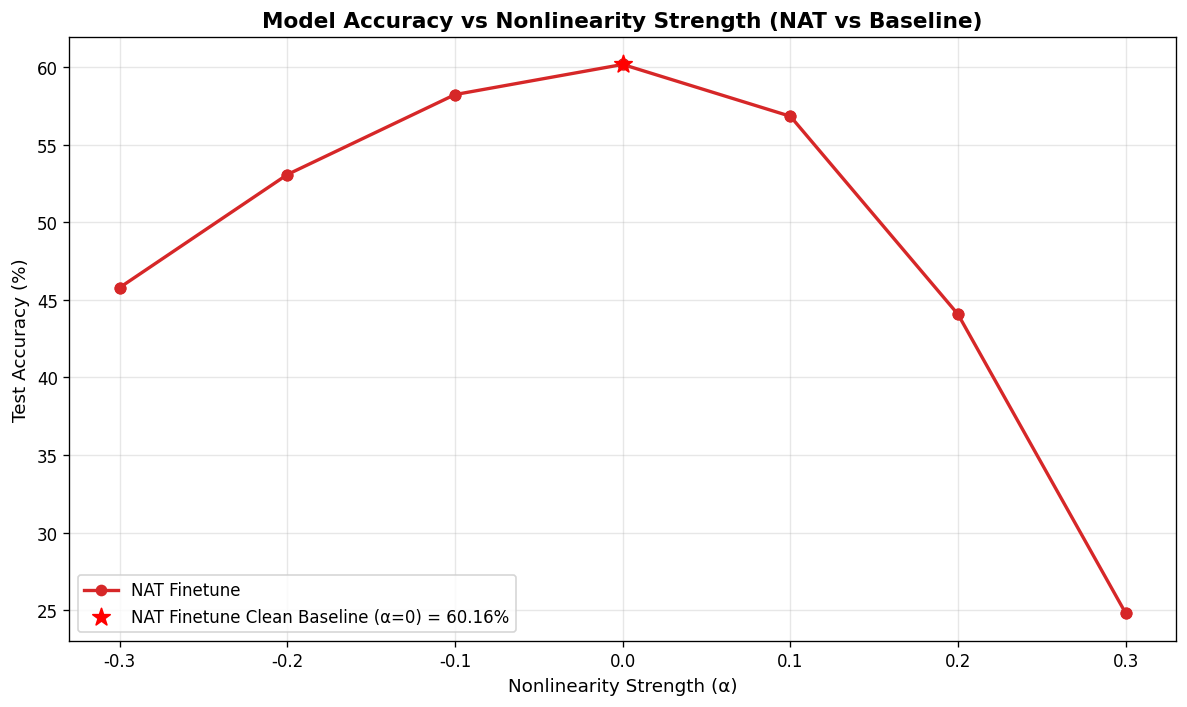
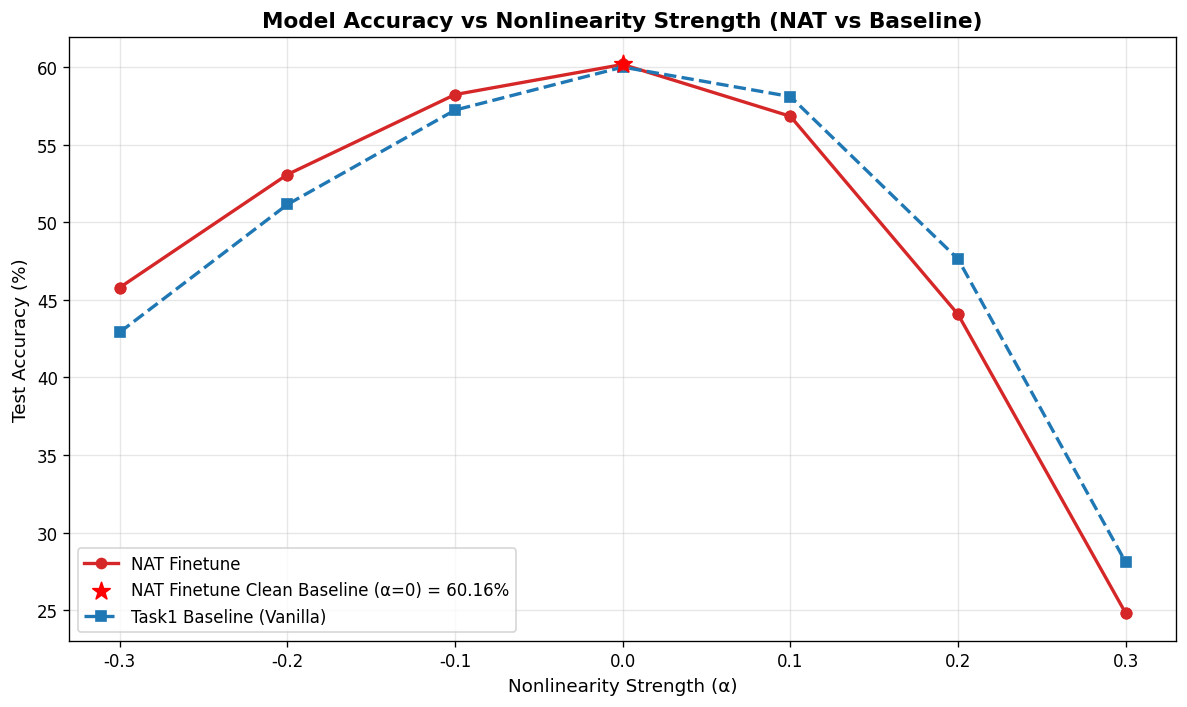
data+fix: 提交 CIFAR-100 extension4/5 产物；ext5 锚点自检加数据集分支；task2_simplecnn 对比图补齐基线

diff --git a/task_extension5_dithering_mechanism.py b/task_extension5_dithering_mechanism.py
@@ -1281,12 +1281,15 @@ def main():
         dataset=args.dataset,
     )
 
-    # 锚点自检
-    for r in group_a_results:
-        if r["num_bits"] == 8:
-            print(f"  [自检] 8bit anchor: {r['accuracy']:.2f}% (expected ≈36.74%)")
-        if r["num_bits"] == 4:
-            print(f"  [自检] 4bit anchor: {r['accuracy']:.2f}% (expected ≈43.27%)")
+    # 锚点自检（36.74%/43.27% 为 CIFAR-10 锚点，仅 cifar10 时比对）
+    if args.dataset == "cifar10":
+        for r in group_a_results:
+            if r["num_bits"] == 8:
+                print(f"  [自检] 8bit anchor: {r['accuracy']:.2f}% (expected ≈36.74%)")
+            if r["num_bits"] == 4:
+                print(f"  [自检] 4bit anchor: {r['accuracy']:.2f}% (expected ≈43.27%)")
+    else:
+        print(f"  [自检] 当前数据集 {args.dataset}：CIFAR-10 锚点不适用，跳过自检")
 
     # ---- Step 4: 组(b) 可控噪声注入 ----
     print("\n" + "#" * 70)
